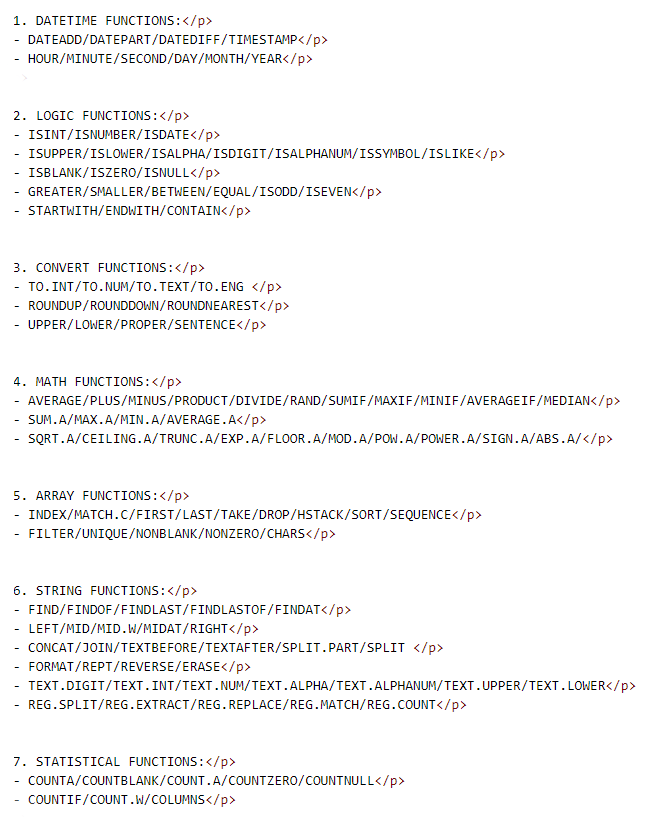
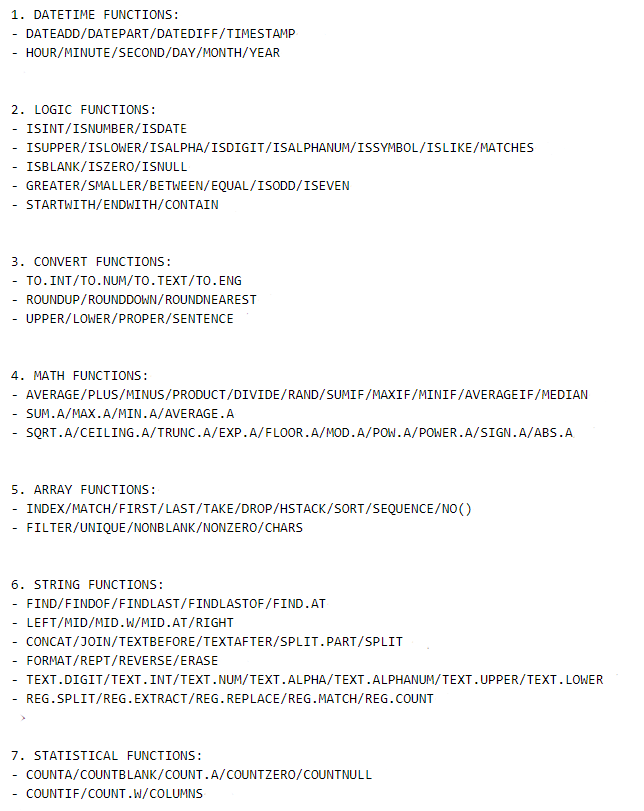
ok

diff --git a/query.html b/query.html
@@ -50,6 +50,7 @@
  </p>
  <blockquote>
   <img src="gif/query.supportfunction.png">
+
   <!-- <p>&nbsp;1. DATETIME FUNCTIONS:</p>
   <p>&nbsp;- DATEADD/DATEPART/DATEDIFF/TIMESTAMP</p>
   <p>&nbsp;- HOUR/MINUTE/SECOND/DAY/MONTH/YEAR</p>
@@ -57,7 +58,7 @@
 <blockquote>
   <p>&nbsp;2. LOGIC FUNCTIONS:</p>
   <p>&nbsp;- ISINT/ISNUMBER/ISDATE</p>
-  <p>&nbsp;- ISUPPER/ISLOWER/ISALPHA/ISDIGIT/ISALPHANUM/ISSYMBOL/ISLIKE</p>
+  <p>&nbsp;- ISUPPER/ISLOWER/ISALPHA/ISDIGIT/ISALPHANUM/ISSYMBOL/ISLIKE/MATCHES</p>
   <p>&nbsp;- ISBLANK/ISZERO/ISNULL</p>
   <p>&nbsp;- GREATER/SMALLER/BETWEEN/EQUAL/ISODD/ISEVEN</p>
   <p>&nbsp;- STARTWITH/ENDWITH/CONTAIN</p>
@@ -76,13 +77,13 @@
 </blockquote>
 <blockquote>
   <p>&nbsp;5. ARRAY FUNCTIONS:</p>
-  <p>&nbsp;- INDEX/MATCH.C/FIRST/LAST/TAKE/DROP/HSTACK/SORT/SEQUENCE</p>
+  <p>&nbsp;- INDEX/MATCH/FIRST/LAST/TAKE/DROP/HSTACK/SORT/SEQUENCE/NO()</p>
   <p>&nbsp;- FILTER/UNIQUE/NONBLANK/NONZERO/CHARS</p>
 </blockquote>
 <blockquote>
   <p>&nbsp;6. STRING FUNCTIONS:</p>
-  <p>&nbsp;- FIND/FINDOF/FINDLAST/FINDLASTOF/FINDAT</p>
-  <p>&nbsp;- LEFT/MID/MID.W/MIDAT/RIGHT</p>
+  <p>&nbsp;- FIND/FINDOF/FINDLAST/FINDLASTOF/FIND.AT</p>
+  <p>&nbsp;- LEFT/MID/MID.W/MID.AT/RIGHT</p>
   <p>&nbsp;- CONCAT/JOIN/TEXTBEFORE/TEXTAFTER/SPLIT.PART/SPLIT </p>
   <p>&nbsp;- FORMAT/REPT/REVERSE/ERASE</p>
   <p>&nbsp;- TEXT.DIGIT/TEXT.INT/TEXT.NUM/TEXT.ALPHA/TEXT.ALPHANUM/TEXT.UPPER/TEXT.LOWER</p>
